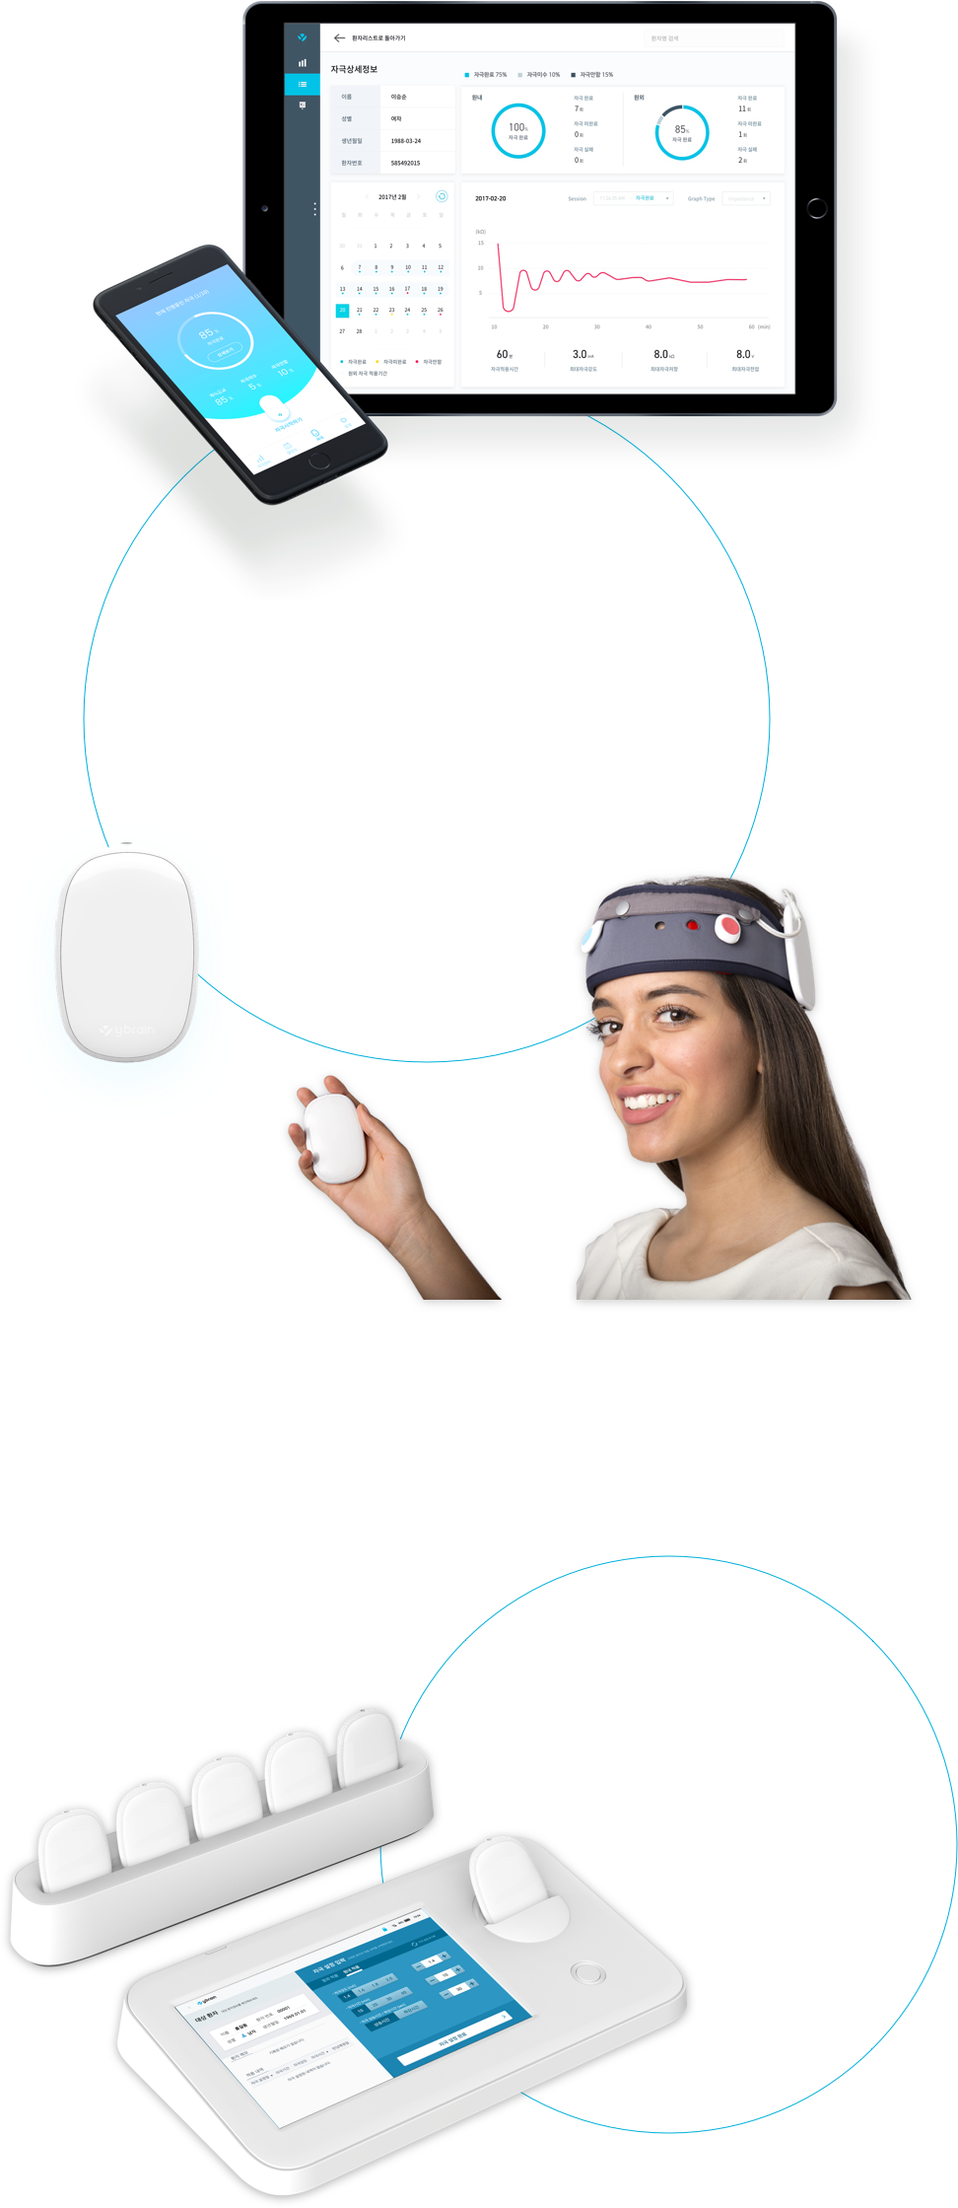
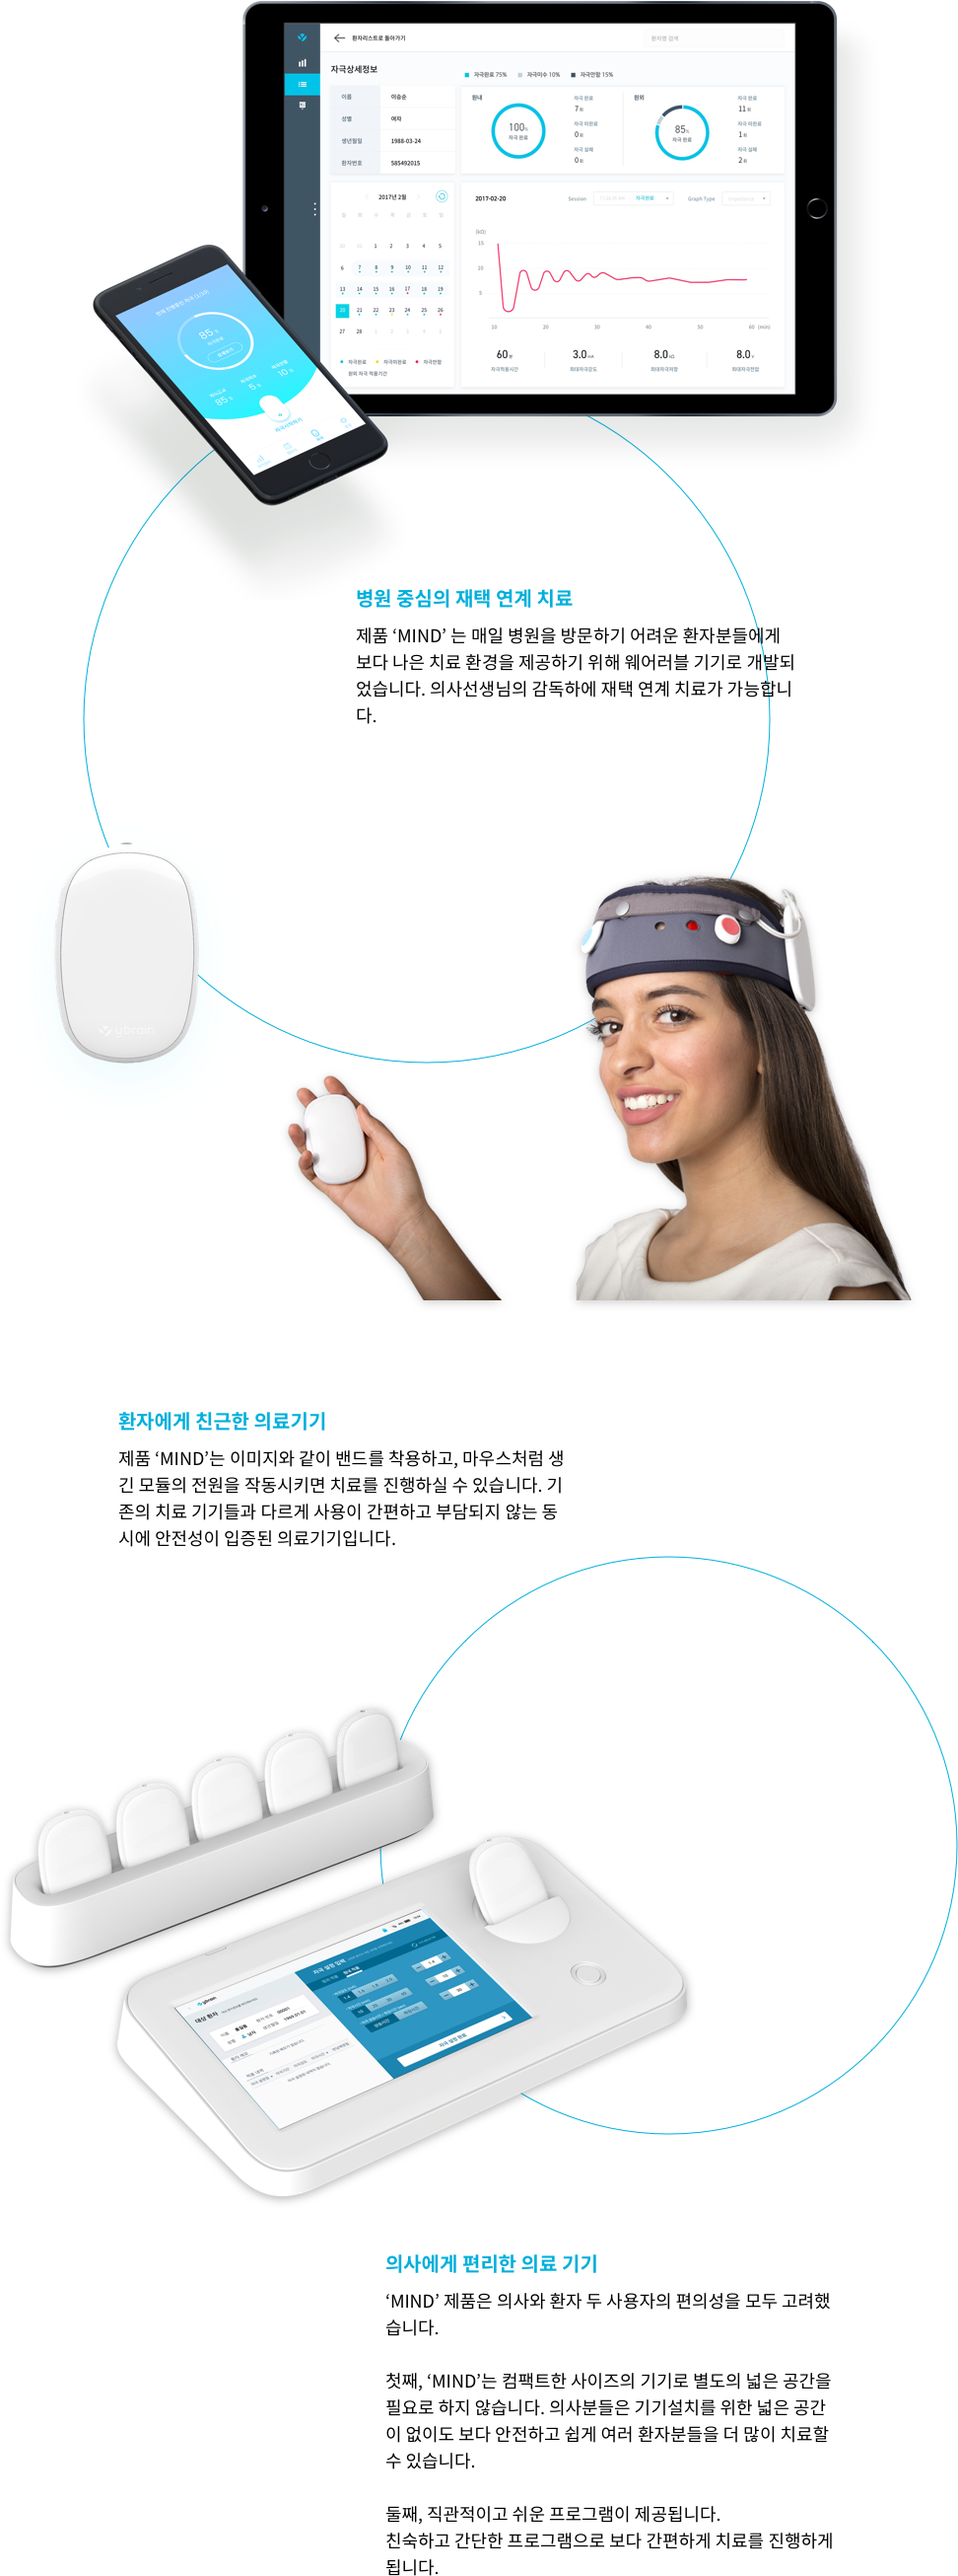
Update product > use

diff --git a/src/components/Product/index.js b/src/components/Product/index.js
@@ -63,7 +63,7 @@ class Features extends Component {
           </div>
           <div className='main-container-content' />
             <img className='feature' alt='product-feature' src={require('../../assets/imgProductFeatures.png')} />
-            <div className='text-hospital-container'>
+            {/* <div className='text-hospital-container'>
               <p className='title'>병원 중심의 재택 연계 치료</p>
               <p className='contents'>제품 ‘MIND’ 는 매일 병원을 방문하기 어려운 환자분들에게 보다 나은 치료 환경을 제공하기 위해 웨어러블 기기로 개발되었습니다. 의사선생님의 감독하에 재택 연계 치료가 가능합니다.</p>
             </div>
@@ -74,7 +74,7 @@ class Features extends Component {
             <div className='text-doctor-container'>
               <p className='title'>의사에게 편리한 의료기기</p>
               <p className='contents'>‘MIND’ 제품은 의사와 환자 두 사용자의 편의성을 모두 고려했습니다. 첫째, ‘MIND’는 컴팩트한 사이즈의 기기로 별도의 넓은 공간을 필요로 하지 않습니다. 의사분들은 기기설치를 위한 넓은 공간이 없이도 보다 안전하고 쉽게 여러 환자분들을 더 많이 치료할 수 있습니다. 둘째, 직관적이고 쉬운 프로그램이 제공됩니다. 친숙하고 간단한 프로그램으로 보다 간편하게 치료를 진행하게 됩니다.</p>
-            </div>
+            </div> */}
         </div>
         <CommonContact />
       </div>
@@ -132,7 +132,13 @@ class Use extends Component {
             <h2 className='main-container-title'>Use</h2>
           </div>
           <div className='main-container-content' />
-
+            <img className='oval' alt='' src={require('../../assets/icOvalGradient.svg')} />
+            <div className='four-thumbnails'>
+              <img className='station' alt='' src={require('../../assets/station.png')} />
+              <img className='module' alt='' src={require('../../assets/module.png')} />
+              <img className='band' alt='' src={require('../../assets/band.png')} />
+              <img className='complete' alt='' src={require('../../assets/complete.png')} />
+            </div>
         </div>
         <CommonContact />
       </div>

diff --git a/src/components/Product/style.css b/src/components/Product/style.css
@@ -25,11 +25,16 @@
     padding: 30px;
 }
 
-.text-hospital-container {
-    float: left;
+/* .text-hospital-container {
+    float: right; 
     box-sizing: border-box;
     width: 50%;
     padding: 30px;
+    padding-top: 1100px;
+    position: absolute; 
+    top: 40%;
+    left: 0;
+    background: inherit;
 }
 
 .text-patient-container {
@@ -44,7 +49,7 @@
     box-sizing: border-box;
     width: 50%;    
     padding: 30px;
-}
+} */
 
 
 /* SAFETY&EFFICACY */
@@ -93,8 +98,53 @@
 
 /* USE */
 
+.oval {
+    box-sizing: border-box;
+    width: 100%;
+    padding: 50px;
+    position: relative;
+    display: inline-block;
+}
 
+.four-thumbnails {
+    box-sizing: border-box;
+    width: 100%;
+    /* position: absolute; 
+    margin-top: -400px;
+    padding-bottom: 160px;  */
+}
 
+.station {
+    box-sizing: border-box;
+    width: 50%;
+    /* position: absolute;
+    top: -220px;
+    left: 0px; */
+}
+
+.module {
+    box-sizing: border-box;
+    width: 50%;
+    /* position: absolute;
+    top: -250px;
+    left: 500px; */
+}
+
+.band {
+    box-sizing: border-box;
+    width: 50%;
+    /* position: absolute;
+    top: 200px;
+    left: 0px; */
+}
+
+.complete {
+    box-sizing: border-box;
+    width: 50%;
+    /* position: absolute;
+    top: 170px;
+    left: 500px; */
+}
 
 
 @media screen and (max-width: 768px) {
@@ -154,5 +204,27 @@
 }
 
 /* USE */
+
+.four-thumbnails {
+    box-sizing: border-box;
+    width: 50%;
+    padding: 30px;
+}
+
+.station {
+    width: 100%;
+}
+
+.module {
+    width: 100%;
+}
+
+.band {
+    width: 100%;
+}
+
+.complete {
+    width: 100%;
+}
 
 }
